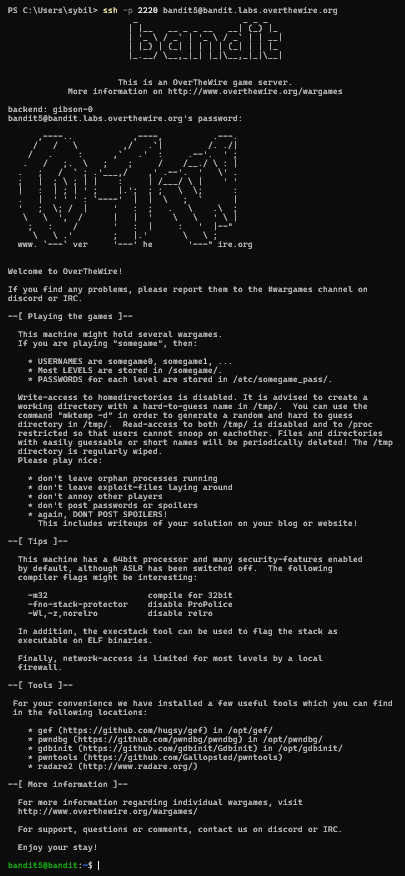
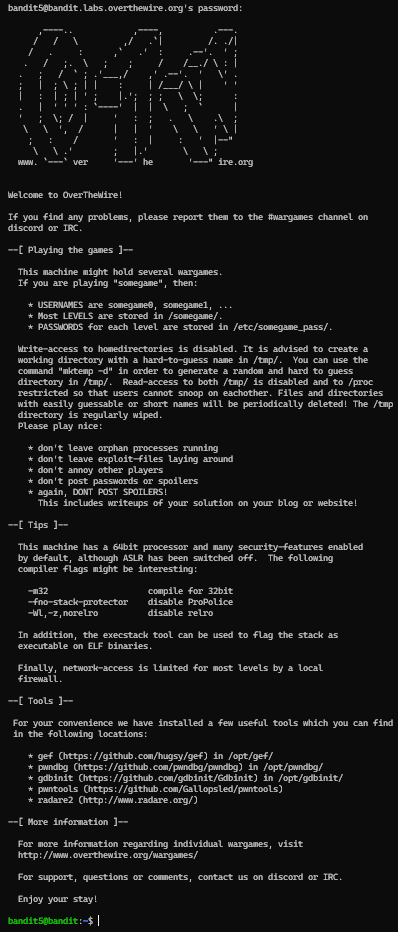
update

diff --git a/bandit/sommaire.md b/bandit/sommaire.md
@@ -3,12 +3,12 @@
 ## 🧭 Navigation
 
 - [Level 0](/bandit/level0/rapport.md)
-- [Level 1](/bandit/level1/rapport.md)
-- [Level 2](/bandit/level2/rapport.md)
-- [Level 3](/bandit/level3/rapport.md)
-- [Level 4](/bandit/level4/rapport.md)
-- [Level 5](/bandit/level5/rapport.md)
-- [Level 6](/bandit/level6/rapport.md)
+- [Level 0 -> 1](/bandit/level0to1/rapport.md)
+- [Level 1 -> 2](/bandit/level1to2/rapport.md)
+- [Level 2 -> 3](/bandit/level2to3/rapport.md)
+- [Level 3 -> 4](/bandit/level3to4/rapport.md)
+- [Level 4 -> 5](/bandit/level4to5/rapport.md)
+- [Level 5 -> 6](/bandit/level5to6/rapport.md)
 
 ## 📈 Progressions et statistiques
 

diff --git a/bandit/level0to1/rapport.md b/bandit/level0to1/rapport.md
@@ -32,7 +32,7 @@ ssh -p 2220 [email redacted]
 
 Après avoir exécuté les étapes ci-dessus, j'ai réussi à me connecter au serveur de jeu en tant que `bandit1`. Le message de bienvenue indique que je suis maintenant connecté en tant que `bandit1`.
 
-![Connexion réussie](/bandit/level1/solution.png)
+![Connexion réussie](/bandit/level0to1/solution.png)
 
 ---
 

diff --git a/bandit/level1to2/rapport.md b/bandit/level1to2/rapport.md
@@ -33,7 +33,7 @@ ssh -p 2220 [email redacted]
 
 Après avoir exécuté les étapes ci-dessus, j'ai réussi à me connecter au serveur de jeu en tant que `bandit2`. Le message de bienvenue indique que je suis maintenant connecté en tant que `bandit2`.
 
-![Connexion réussie](/bandit/level2/solution.png)
+![Connexion réussie](/bandit/level1to2/solution.png)
 
 ---
 

diff --git a/bandit/level2to3/rapport.md b/bandit/level2to3/rapport.md
@@ -33,7 +33,7 @@ ssh -p 2220 [email redacted]
 
 Après avoir exécuté les étapes ci-dessus, j'ai réussi à me connecter au serveur de jeu en tant que `bandit3`. Le message de bienvenue indique que je suis maintenant connecté en tant que `bandit3`.
 
-![Connexion réussie](/bandit/level3/solution.png)
+![Connexion réussie](/bandit/level2to3/solution.png)
 
 ---
 

diff --git a/bandit/level3to4/rapport.md b/bandit/level3to4/rapport.md
@@ -36,7 +36,7 @@ ssh -p 2220 [email redacted]
 
 Après avoir exécuté les étapes ci-dessus, j'ai réussi à me connecter au serveur de jeu en tant que `bandit4`. Le message de bienvenue indique que je suis maintenant connecté en tant que `bandit4`.
 
-![Connexion réussie](/bandit/level4/solution.png)
+![Connexion réussie](/bandit/level3to4/solution.png)
 
 ---
 

diff --git a/bandit/level4to5/rapport.md b/bandit/level4to5/rapport.md
@@ -37,7 +37,7 @@ ssh -p 2220 [email redacted]
 
 Après avoir exécuté les étapes ci-dessus, j'ai réussi à me connecter au serveur de jeu en tant que `bandit5`. Le message de bienvenue indique que je suis maintenant connecté en tant que `bandit5`.
 
-![Connexion réussie](/bandit/level5/solution.png)
+![Connexion réussie](/bandit/level4to5/solution.png)
 
 ---
 